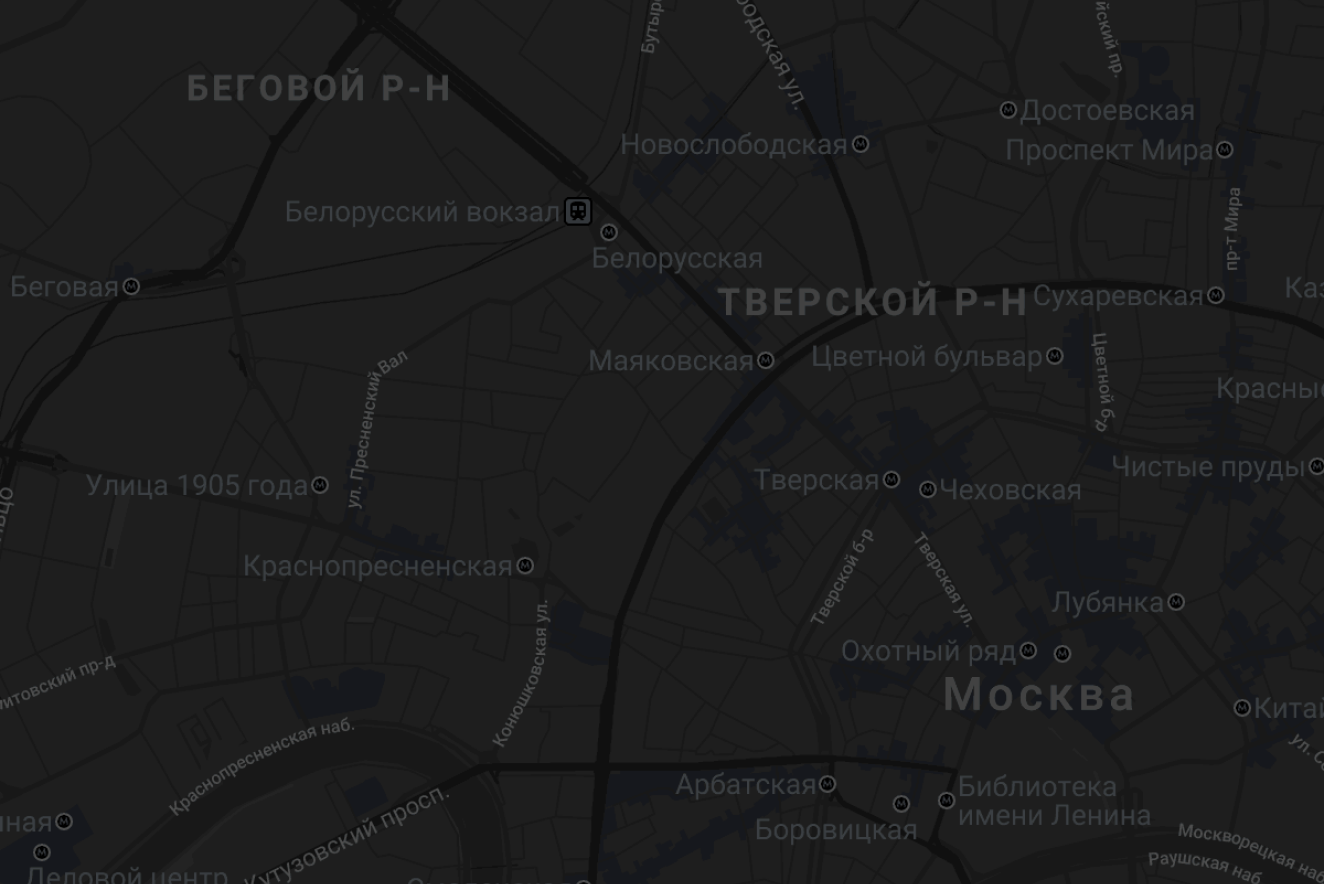
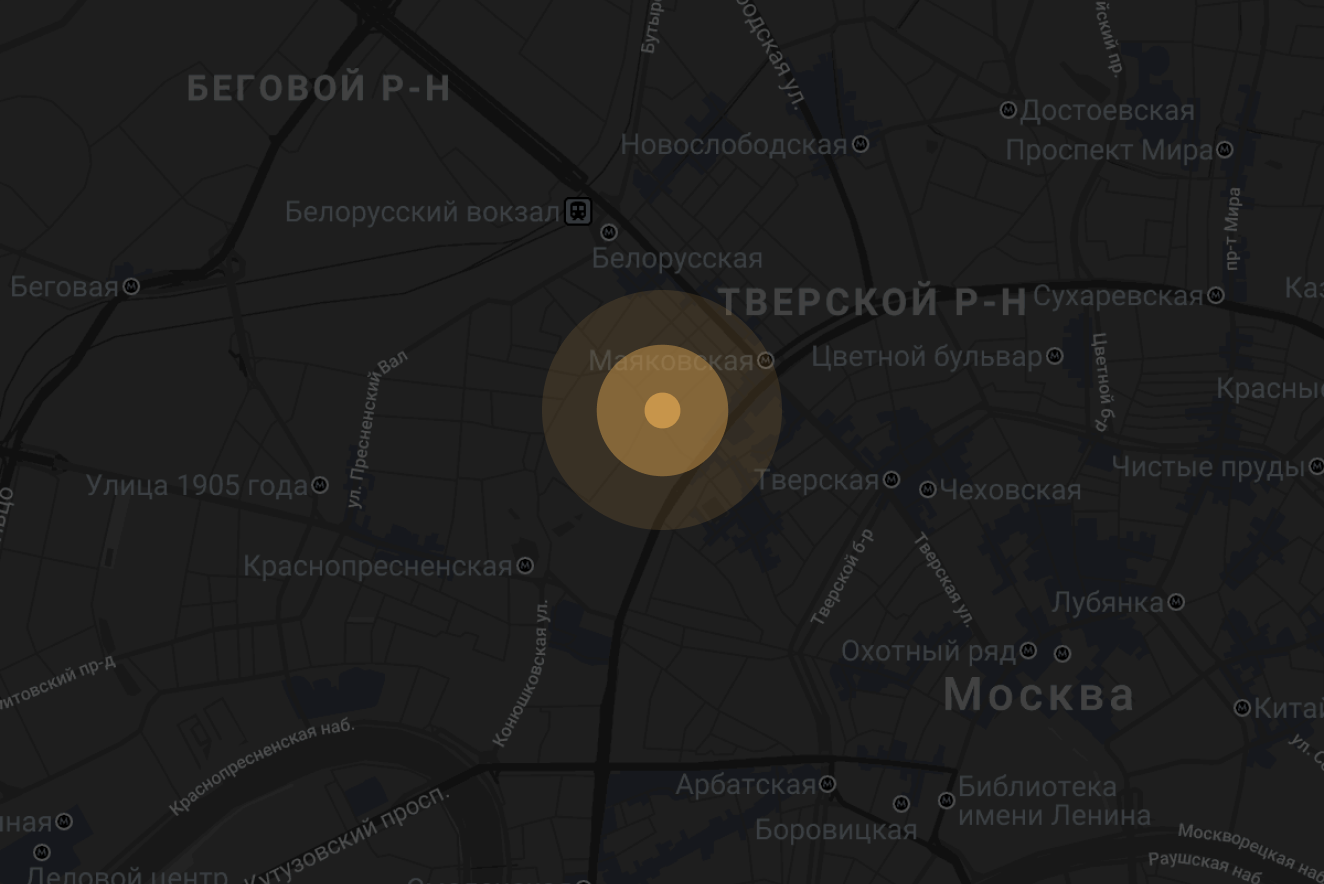
adding section

Changed region(s): [[0.4026, 0.3054, 0.5884, 0.6109]]

diff --git a/index.html b/index.html
@@ -543,32 +543,41 @@
         </section>
 
         <section class="location">
-            <div class="container">
-                <div class="location__info">
-                    <div class="location__info_wrap">
-                        <div class="location__adress">
+            <div class="container location__container">
+                <div class="location__wrap">
+                    <div class="location__adress">
+                        <div class="location-img">
                             <img src="./img/location/pin-icon.svg" alt="">
-                            <div class="attribute"></div>
-                            <div class="attribute-value"></div>
                         </div>
-                        <div class="location__tel">
+                        <div class="location-info">
+                            <div class="attribute">Адрес</div>
+                            <div class="attribute-value">ул. Маяковская, д. 3</div>
+                        </div>
+                        
+                    </div>
+                    <div class="location__tel">
+                        <div class="location__img">
                             <img src="./img/location/phone-icon.svg" alt="">
-                            <div class="attribute"></div>
-                            <div class="attribute-value"></div>
                         </div>
-                        <div class="location__mode">
+                        <div class="location-info">
+                            <div class="attribute">Телефон</div>
+                            <div class="attribute-value">+7 (495) 764 26 14</div>
+                        </div>
+                    </div>
+                    <div class="location__mode">
+                        <div class="location__img">
                             <img src="./img/location/clock-icon.svg" alt="">
-                            <div class="attribute"></div>
-                            <div class="attribute-value"></div>
+                        </div>
+                        <div class="location-info">
+                            <div class="attribute">Время работы</div>
+                            <div class="attribute-value">
+                                    <p>Пн-Пт: 10:00 - 19:00</p>
+                                    <p>Сб: 10:00 - 17:00</p>
+                                    <p>Вс: выходной</p>
+                            </div>
                         </div>
                     </div>
                 </div>
-
-                <svg xmlns="http://www.w3.org/2000/svg" width="240" height="240" viewBox="0 0 240 240" fill="none">
-                    <circle opacity="0.16" cx="120" cy="120" r="120" fill="#C7954B"/>
-                    <circle opacity="0.53" cx="120.498" cy="120.498" r="65.7261" fill="#C7954B"/>
-                    <ellipse cx="120.498" cy="120.498" rx="17.9253" ry="17.9253" fill="#C7954B"/>
-                </svg>
             </div>
         </section>
 

diff --git a/css/style.css b/css/style.css
@@ -1352,4 +1352,72 @@ button:active {
   font-style: normal;
 }
 
-/*location section*//*# sourceMappingURL=style.css.map */
+/*location section*/
+.location__container {
+  background-image: url("/img/location/map.png");
+  background-size: cover;
+  background-repeat: no-repeat;
+  background-position: bottom;
+  height: 884px;
+  position: relative;
+}
+@media (max-width: 1024px) {
+  .location__container {
+    background-size: cover;
+  }
+}
+.location__wrap {
+  position: absolute;
+  top: 248px;
+  left: 78px;
+  background-color: var(--bg-accent);
+  display: flex;
+  flex-direction: column;
+  width: 392px;
+  padding: 60px;
+  gap: 24px;
+  font-family: "IBM Plex Sans", sans-serif;
+  font-weight: 400;
+}
+@media (max-width: 1240px) {
+  .location__wrap {
+    top: -100px;
+    left: 40px;
+  }
+}
+.location__adress {
+  display: flex;
+  flex-wrap: wrap;
+  align-items: center;
+  gap: 16px;
+}
+.location-img {
+  width: 20px;
+  height: 20px;
+}
+.location__tel {
+  display: flex;
+  flex-wrap: wrap;
+  align-items: center;
+  gap: 16px;
+}
+.location__mode {
+  display: flex;
+  flex-wrap: wrap;
+  align-items: center;
+  gap: 16px;
+}
+.location-info {
+  display: flex;
+  flex-direction: column;
+}
+
+.attribute {
+  color: rgba(255, 255, 255, 0.5);
+  font-size: 16px;
+  line-height: 24px;
+}
+
+.attribute-value {
+  font-size: 20px;
+}/*# sourceMappingURL=style.css.map */

diff --git a/scss/_location.scss b/scss/_location.scss
@@ -1,1 +1,72 @@
 /*location section*/
+.location {
+
+    &__container {
+        background-image: url('/img/location/map.png');
+        background-size: cover;
+        background-repeat: no-repeat;
+        background-position:  bottom;
+        
+        height: 884px;
+        position: relative;
+
+        @media(max-width: 1024px){
+            background-size: cover;
+
+
+        }
+    }
+
+    &__wrap {
+        position: absolute;
+        top: 248px;
+        left: 78px;
+        background-color: var(--bg-accent);
+        display: flex;
+        flex-direction: column;
+        width: 392px;
+        padding: 60px;
+        gap: 24px;
+        font-family: $font-IBM;
+        font-weight: 400;
+
+        @media(max-width: 1240px){
+            top: -100px;
+            left: 40px;
+
+        }
+    }
+
+    &__adress {
+        @include location;
+    }
+
+    &-img {
+        width: 20px;
+        height: 20px;
+    }
+
+    &__tel {
+        @include location;
+    }
+
+    &__mode {
+        @include location;
+    }
+
+    &-info{
+        display: flex;
+        flex-direction: column;
+    }
+}
+
+.attribute {
+    color: rgba(#fff, 0.50);
+    font-size: 16px;
+    line-height: 24px;
+}
+
+.attribute-value {
+    font-size: 20px;
+}
+

diff --git a/scss/_default.scss b/scss/_default.scss
@@ -23,9 +23,7 @@ body {
     background-color: var(--bg-color);
     color: var(--text-color);
     background-image: url('../img/background.svg');
-    // background-repeat: no-repeat;
     background-repeat: repeat-y;
-    // background-size: cover;
     background-size: 100%;
     background-position: top;
     margin: 0;

diff --git a/scss/_var.scss b/scss/_var.scss
@@ -159,3 +159,10 @@ $font-IBM: 'IBM Plex Sans', sans-serif;
         font-size: 20px;
     }
 }
+
+@mixin location{
+    display: flex;
+    flex-wrap: wrap;
+    align-items: center;
+    gap: 16px;
+}
